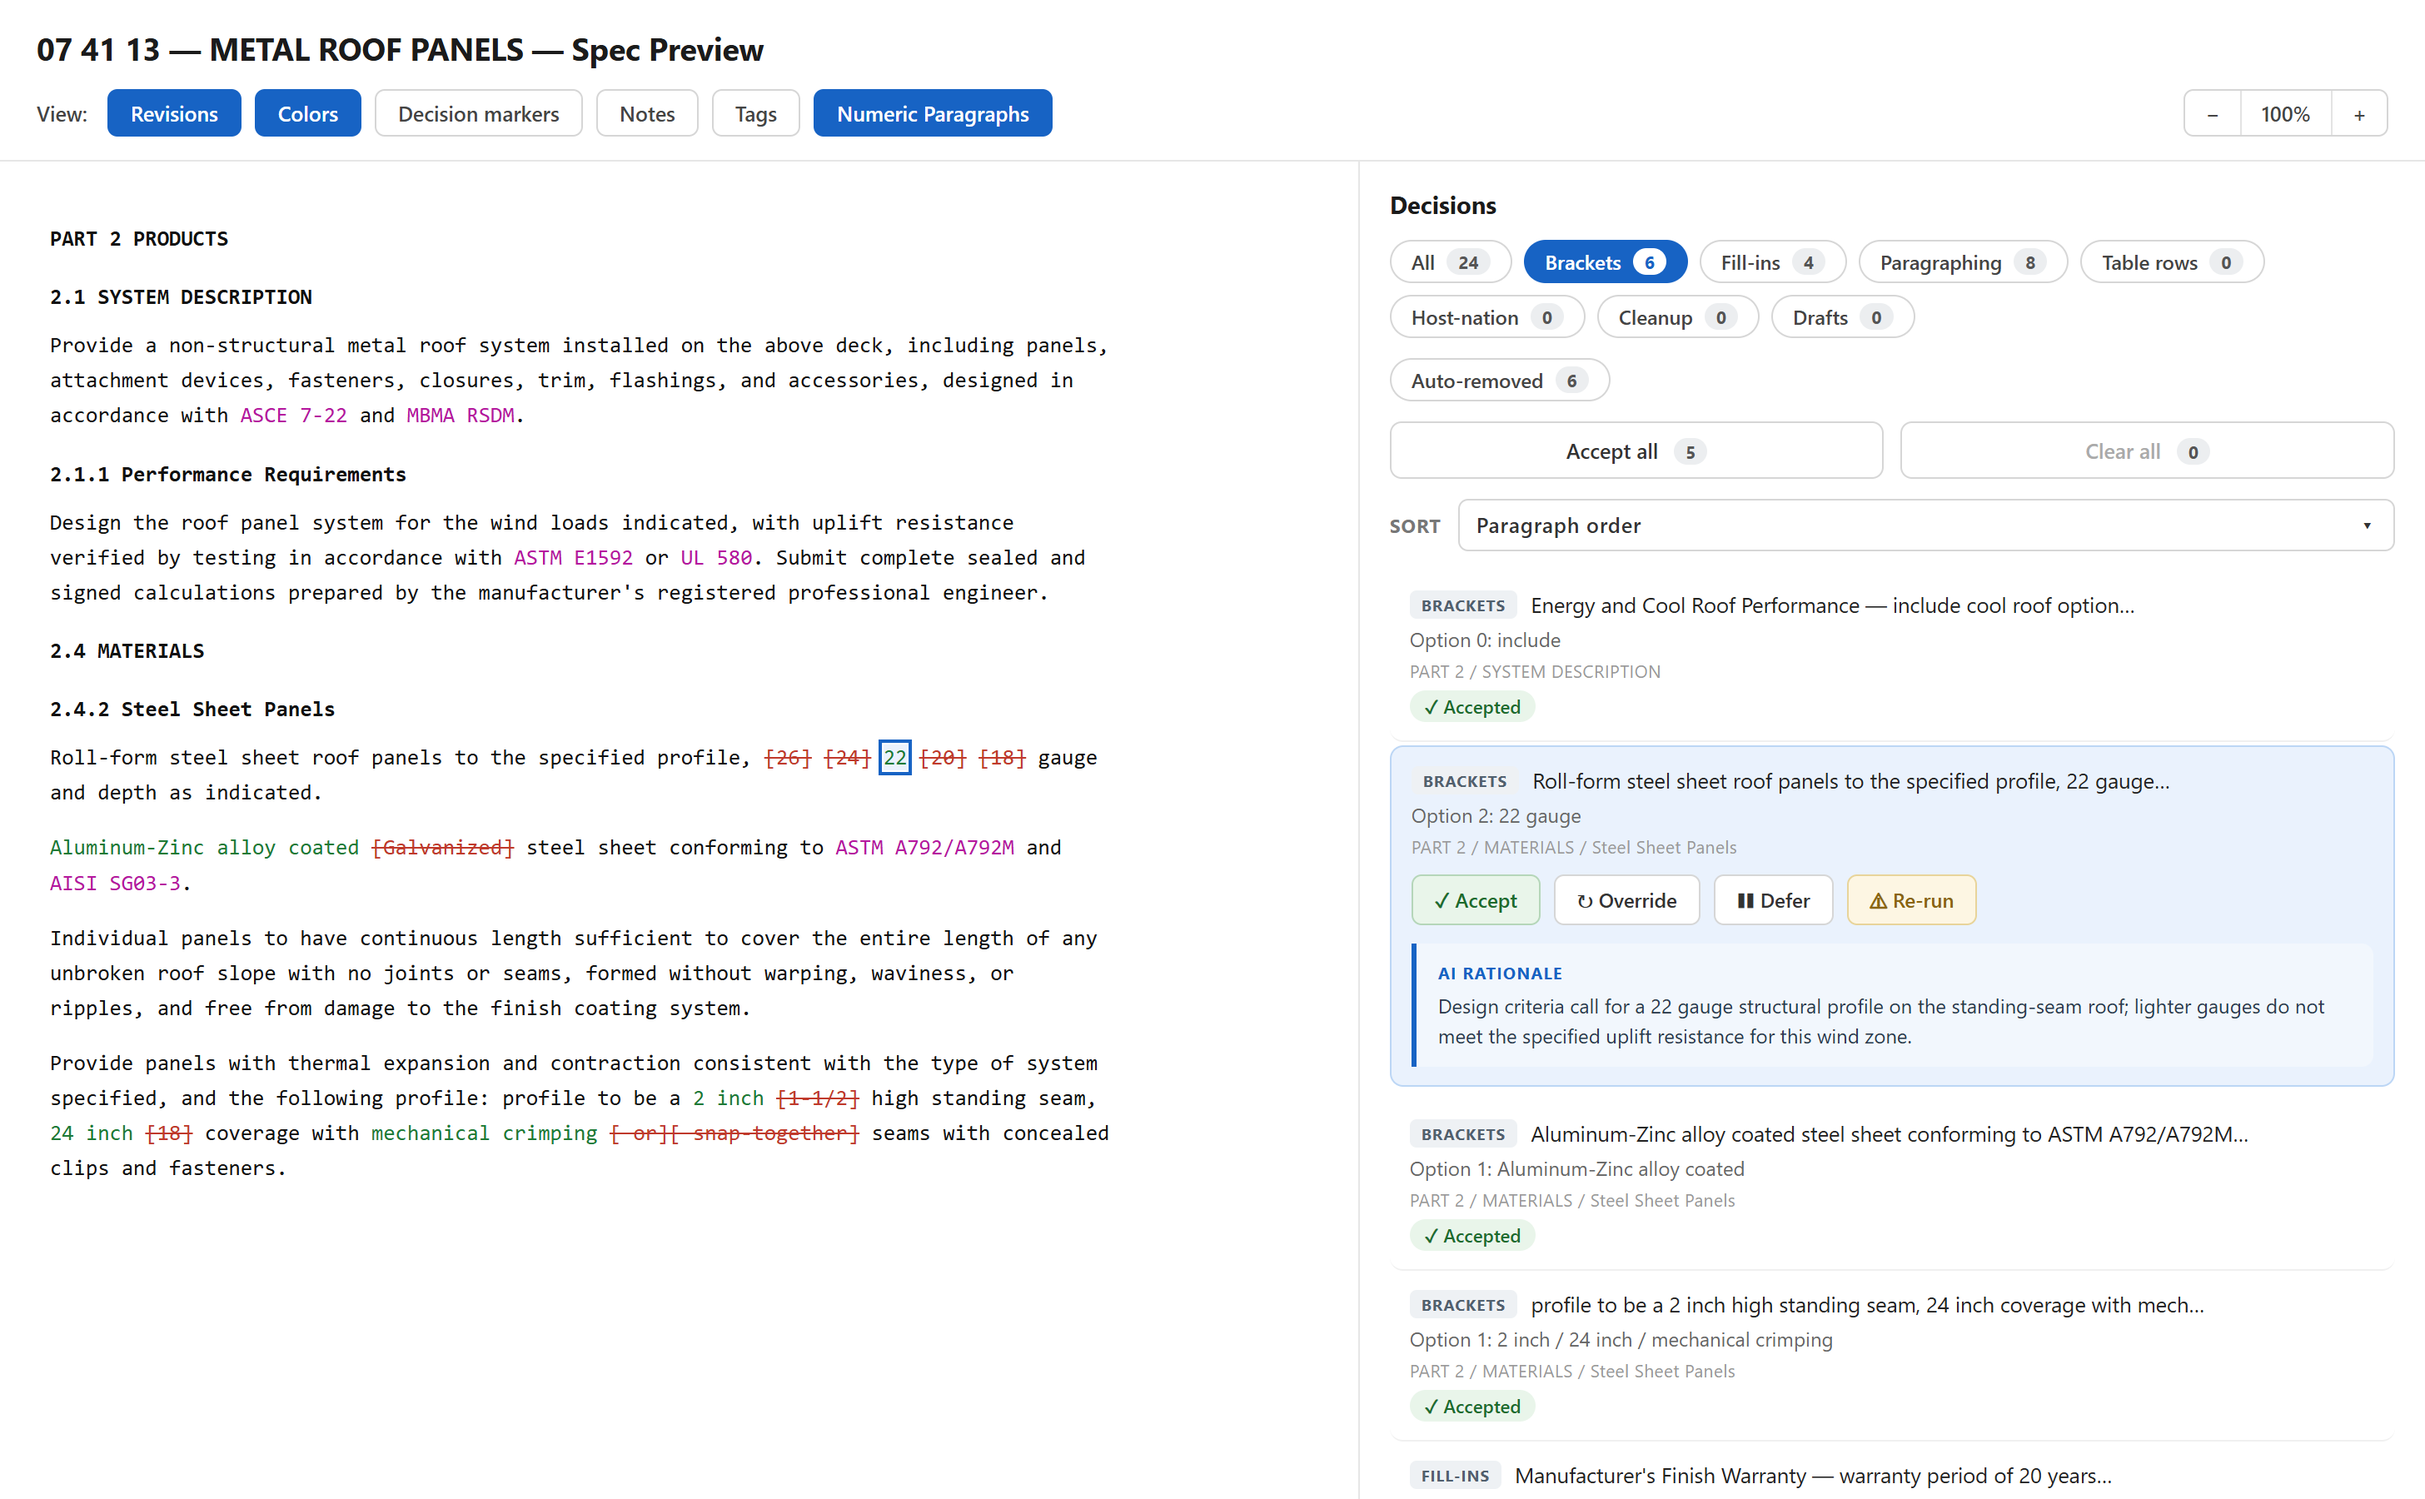
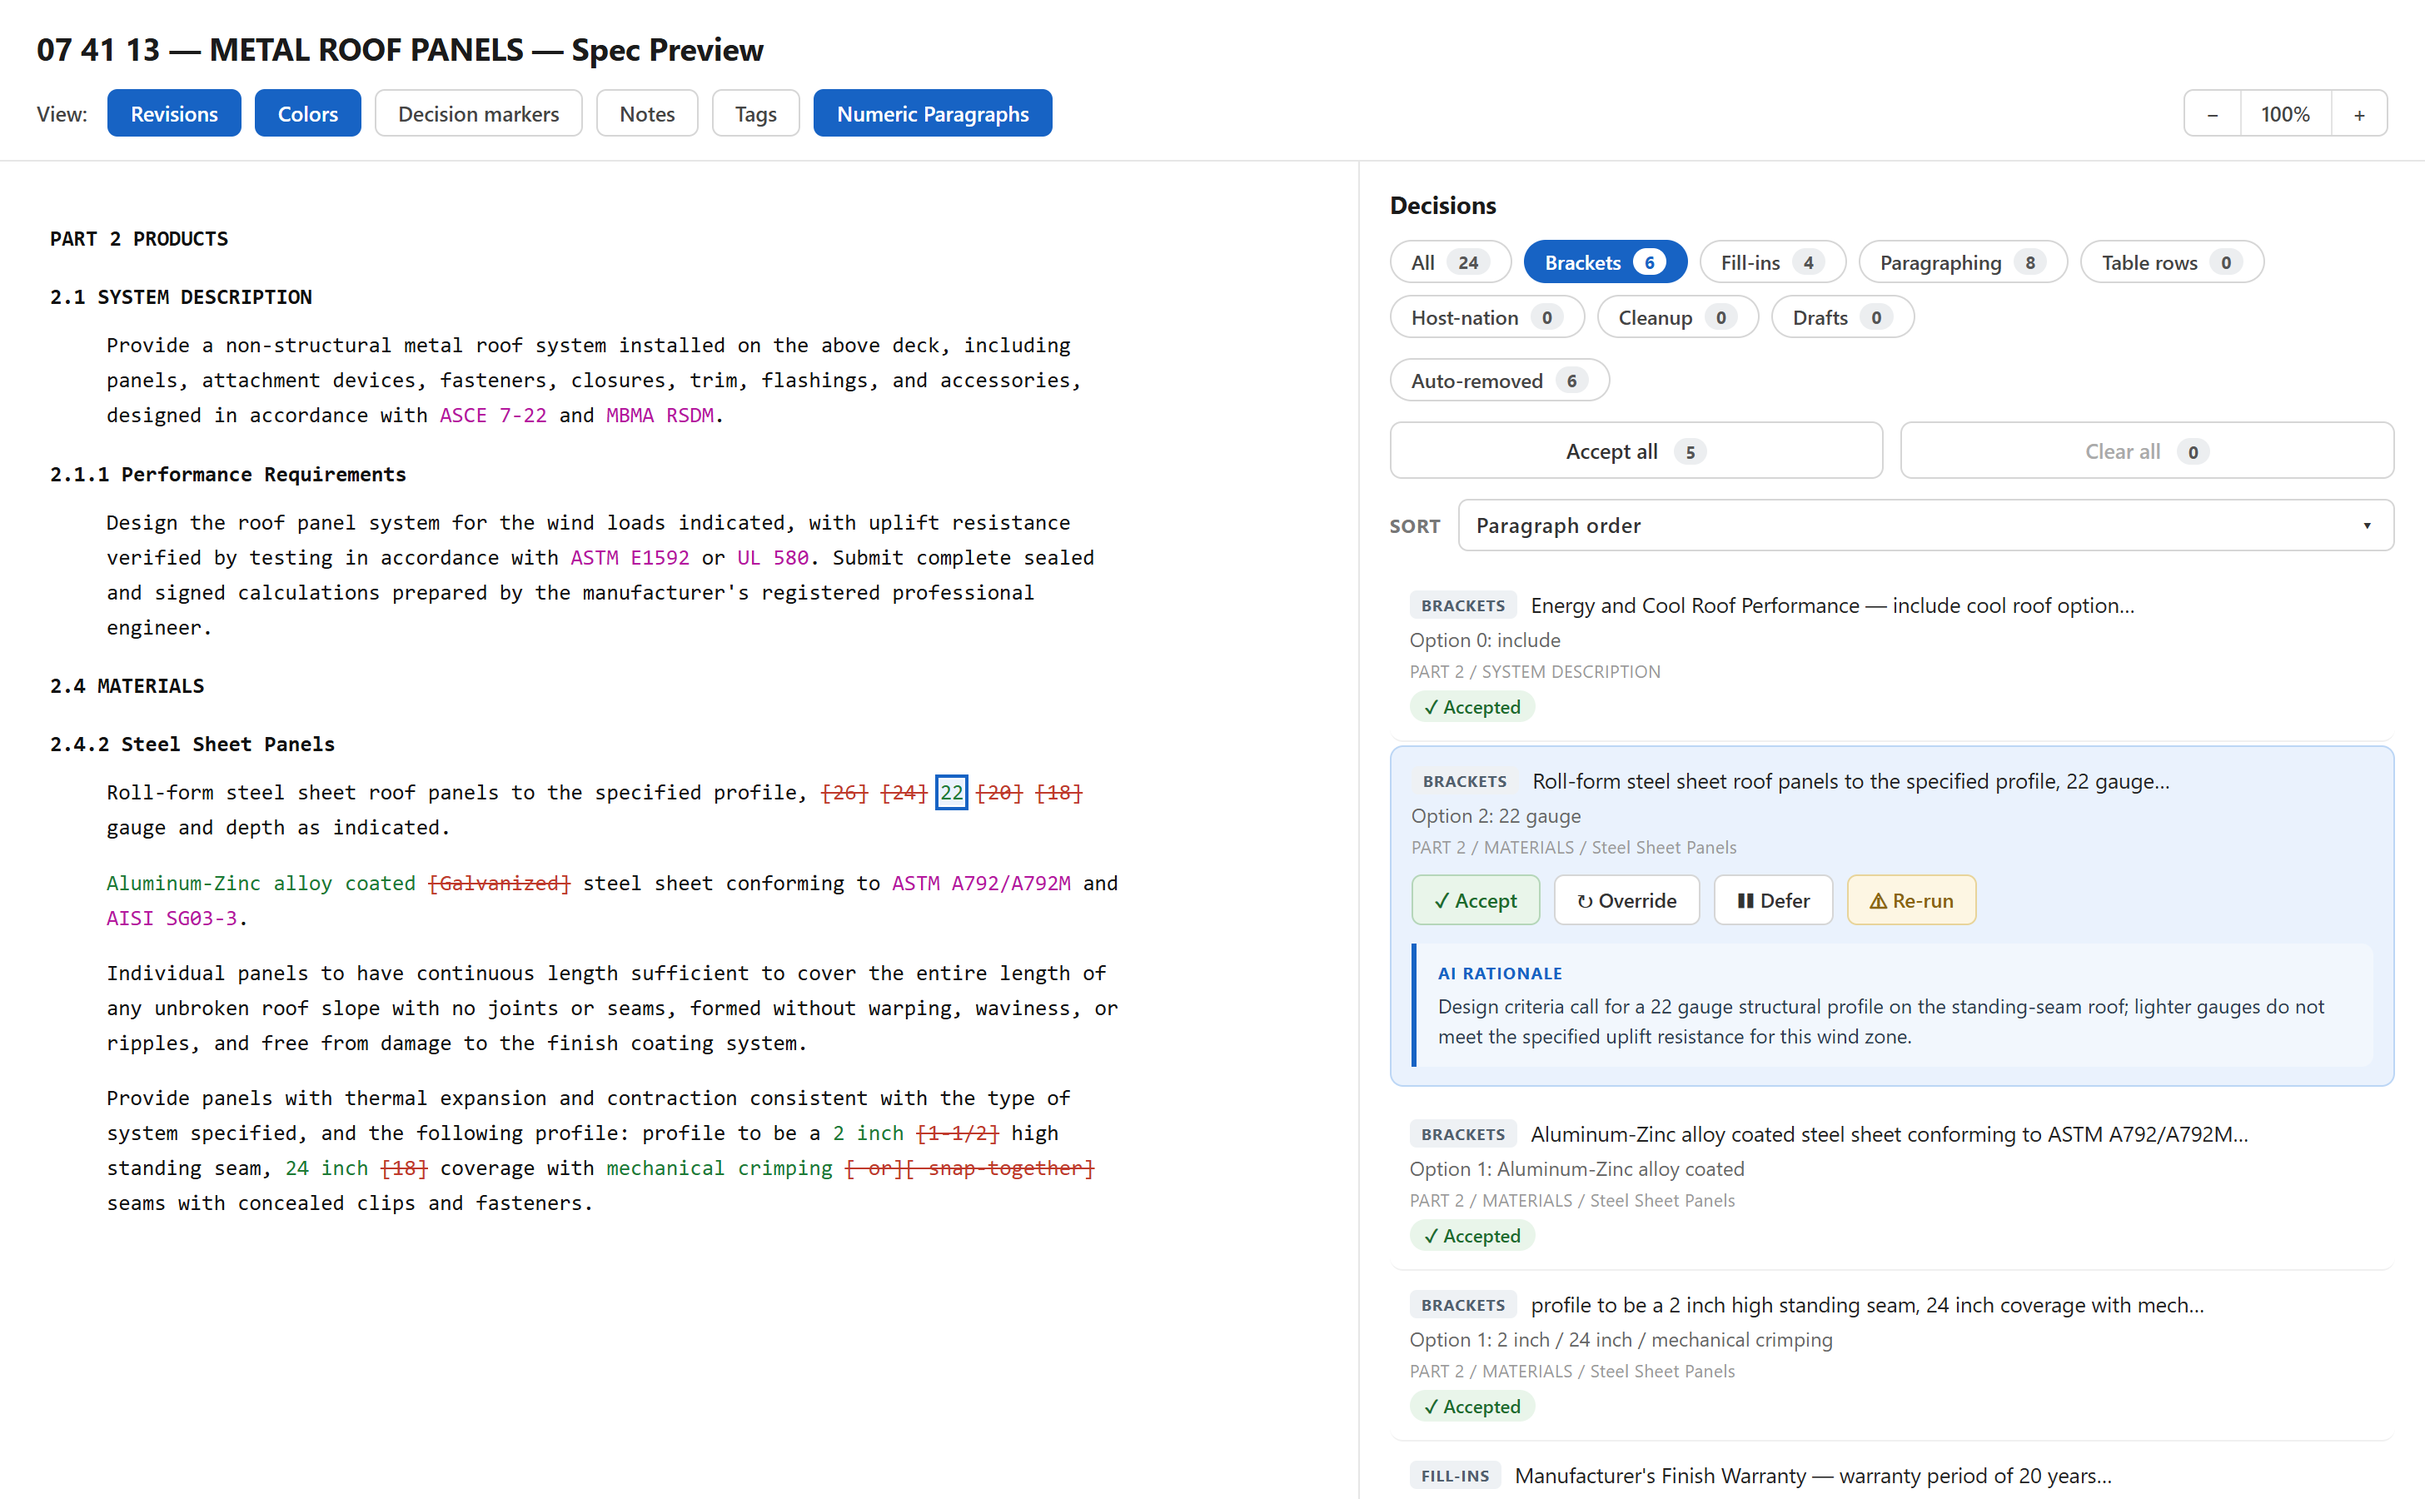
mocks: indent body text under article numbers in View Spec mock (SI-style hang indent)

Changed region(s): [[0.0312, 0.3422, 0.4688, 0.8089], [0.0312, 0.2178, 0.4375, 0.28]]

diff --git a/mocks/view-spec-mock.html b/mocks/view-spec-mock.html
@@ -42,7 +42,9 @@
   }
   .spec .prt { font-weight: 700; margin: 14px 0 12px; }
   .spec .spt { font-weight: 700; margin: 14px 0 8px; }
-  .spec p { margin: 0 0 12px; max-width: 640px; }
+  /* Body text hangs indented under the numbered article heading,
+     matching the SpecsIntact-style rendering in the app. */
+  .spec p { margin: 0 0 12px 34px; max-width: 610px; }
   .ref { color: #b5179e; }
   .added { color: #1e7a35; }
   .del { color: #c0392b; text-decoration: line-through; }
